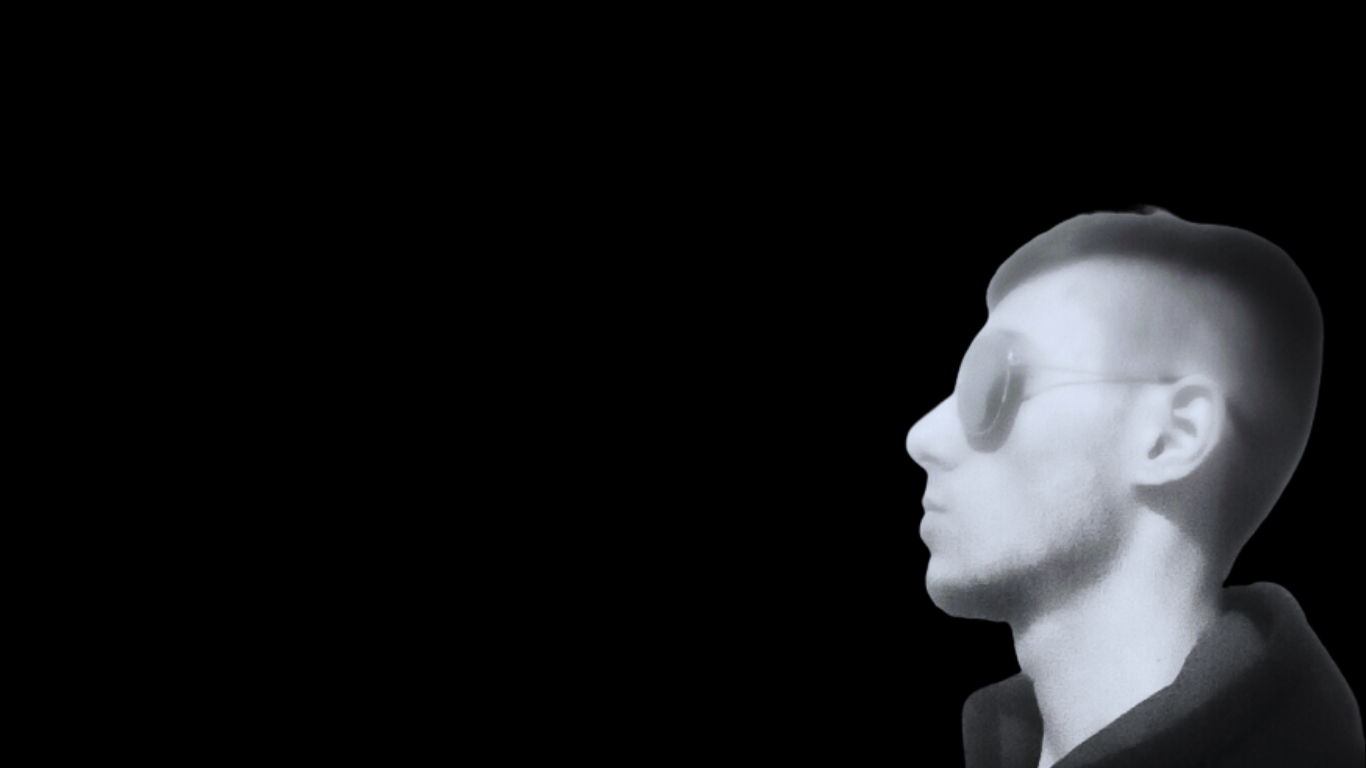
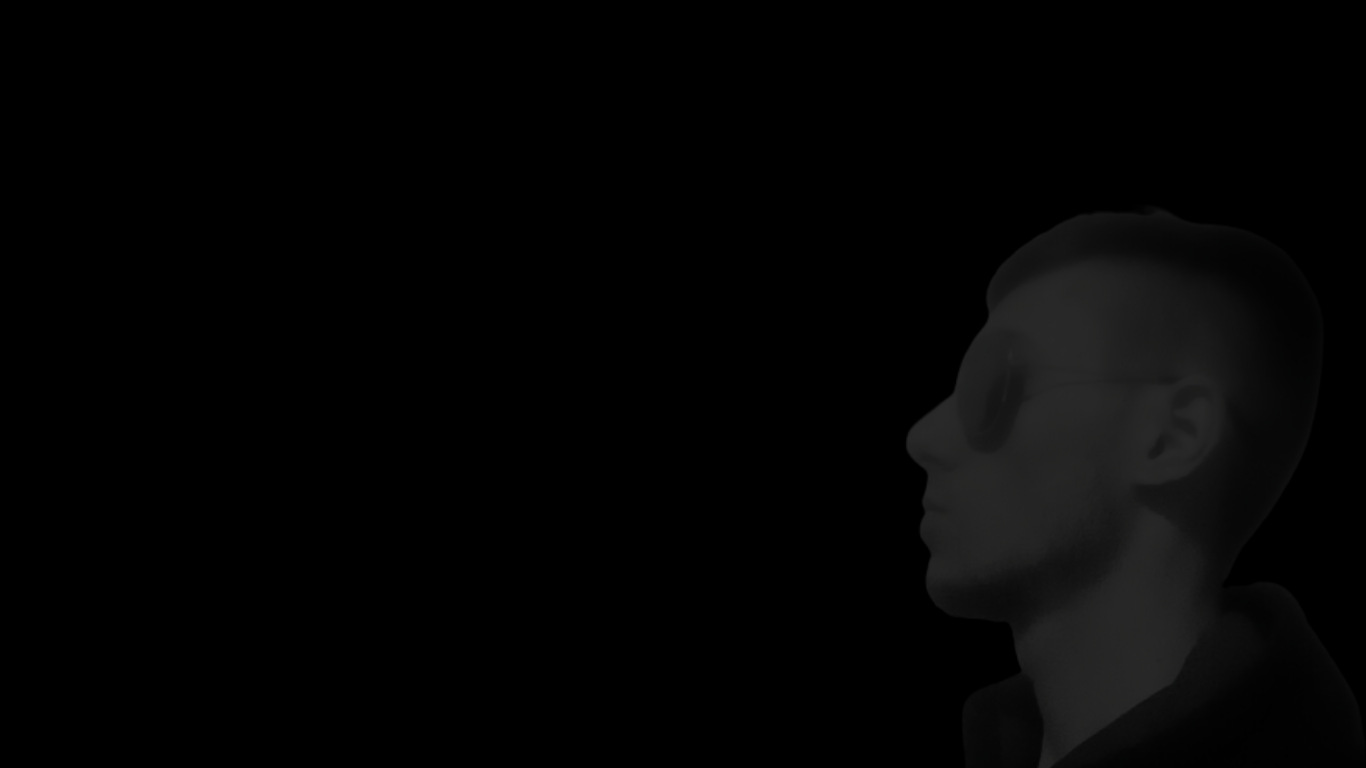
fix img home brightness

Changed region(s): [[0.6457, 0.25, 1.0, 1.0]]

diff --git a/index.html b/index.html
@@ -20,11 +20,11 @@
 
 <body>
     <header class="header">
-        <audio autoplay id="audio">
+        <!-- <audio autoplay id="audio">
             <source src="./assets/audio.mp3" type="audio/mp3">
-        </audio>
+        </audio> -->
 
-        <a href="#" class="logo">Gabriel🍷🗿</a>
+        <a href="#" class="logo">Gabriel Developer</a>
 
         <!-- Translate -->
         <div class="gtranslate_wrapper"></div>
